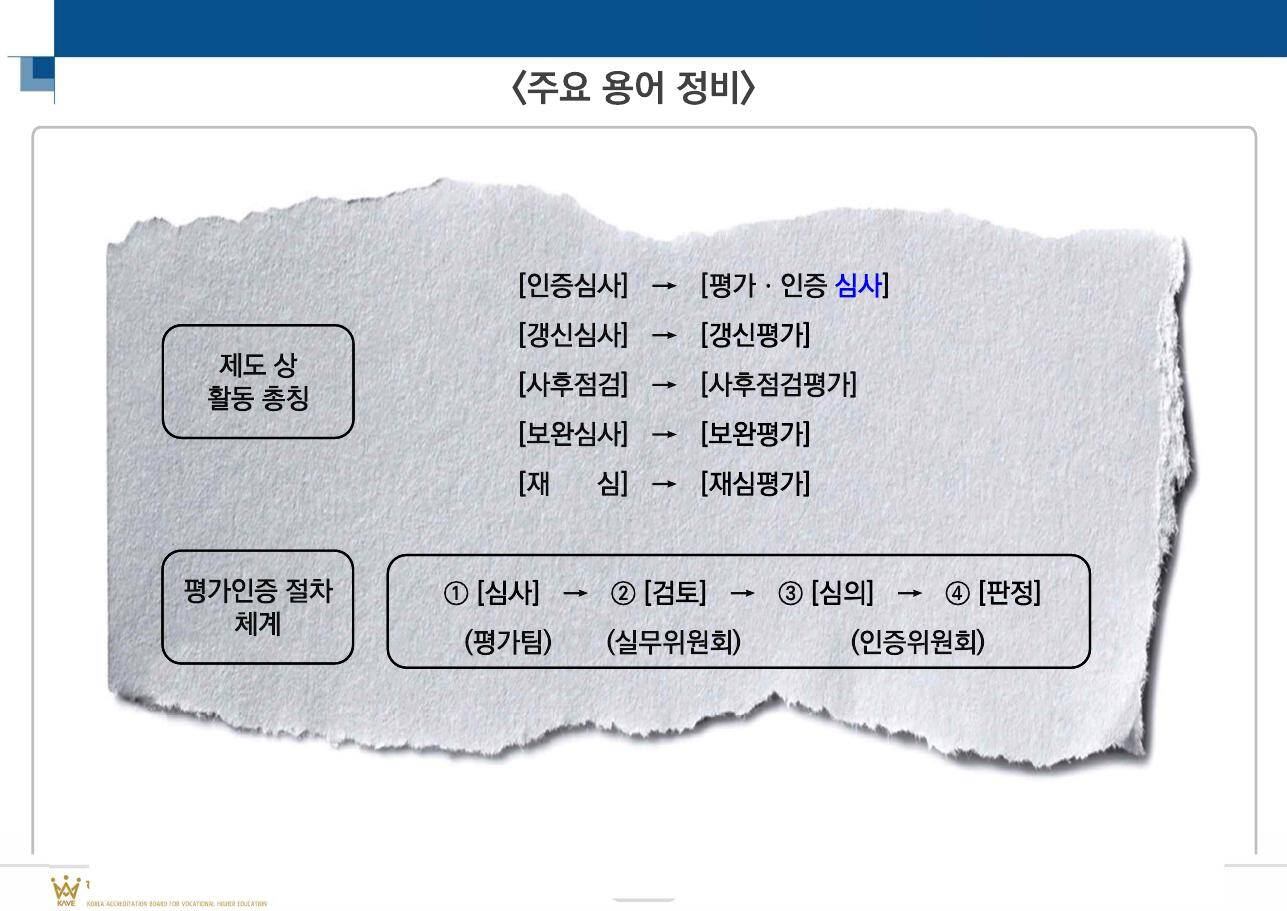
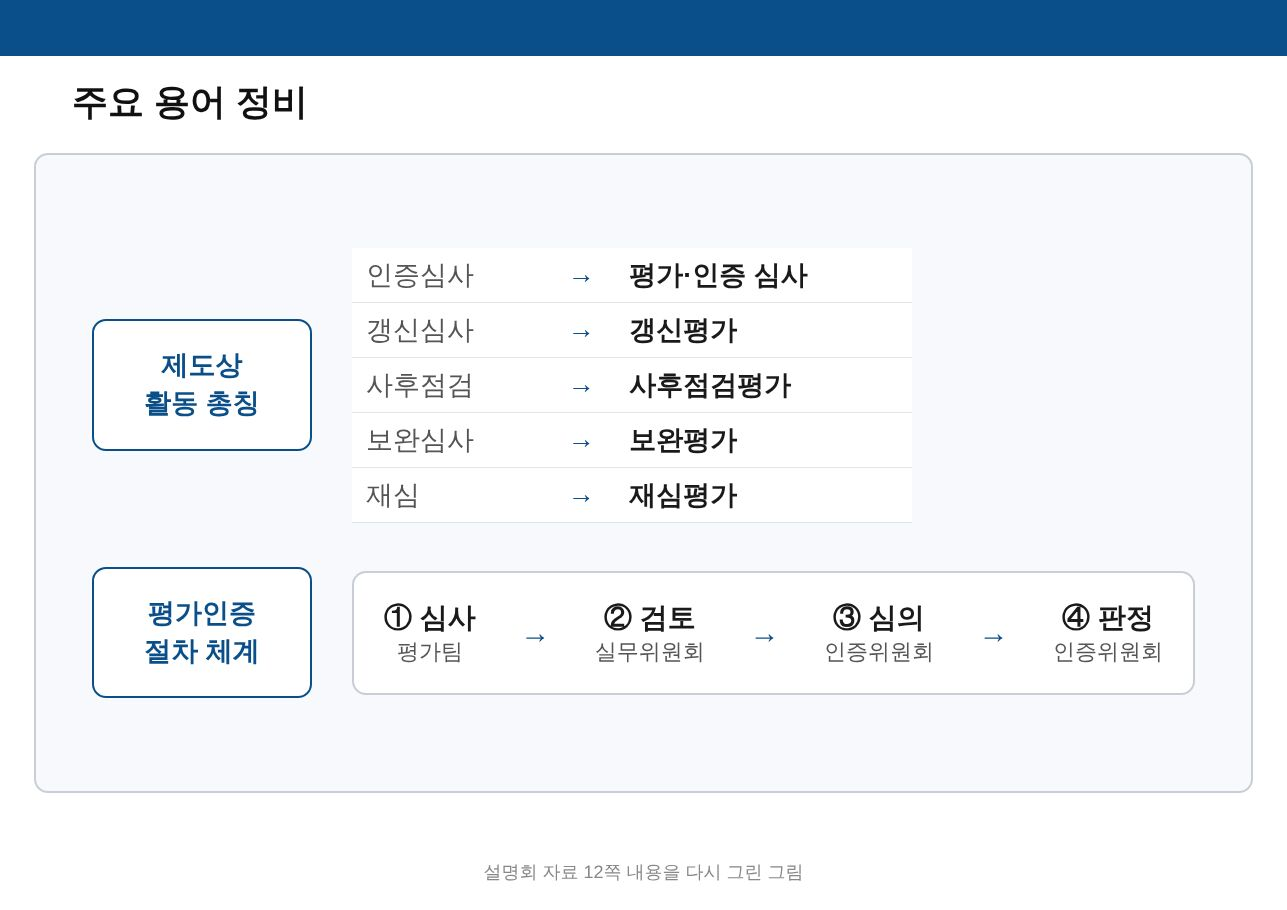
accreditation: 전체 편람 PDF 받기 버튼(fullPdf 없으면 숨김), 설명회 12쪽 그림 교체
Claude-Session: https://claude.ai/code/session_01S8huPHn3ub11s9fvdxA1Q7

diff --git a/accreditation/assets/app.js b/accreditation/assets/app.js
@@ -97,6 +97,7 @@
       '<div class="total"><b>5개 영역</b><span class="muted">평가준거 30개 · 평가요소 90개 · 판단항목 201개</span></div>' +
       '<div class="bar acc-bar" role="img" aria-label="평가영역별 평가요소 수">' + AREAS.map(function (a) { var n = a.criteria.reduce(function (s, c) { return s + c.elements.length; }, 0); return '<span class="' + areaCls(a) + '" style="width:' + (n * 100 / INDEX.length) + '%"></span>'; }).join('') + '</div>' +
       '<div class="legend">' + AREAS.map(function (a) { return '<span class="' + areaCls(a) + '"><i></i>' + esc(a.id + '. ' + a.name) + '</span>'; }).join('') + '</div>' +
+      (HB.fullPdf ? '<a class="hb-pdf" href="' + esc(HB.docs + HB.fullPdf) + '" download="accreditation-handbook-' + esc(HB.id) + '.pdf"><svg viewBox="0 0 24 24" fill="none" stroke="currentColor" stroke-width="1.9" stroke-linecap="round" stroke-linejoin="round" aria-hidden="true"><path d="M12 4v11M7 10l5 5 5-5M5 20h14"/></svg>편람 원문 PDF 받기' + (HB.fullPages ? ' <small>' + HB.fullPages + '쪽</small>' : '') + '</a>' : '') +
       '</section>';
     h += cycleCard(false);
 
@@ -1362,6 +1363,9 @@
       '<div class="settings-row"><span>발간</span><b>' + esc(DATA.meta.published) + '</b></div>';
     document.getElementById('hbInfo').innerHTML =
       '<div class="settings-row"><span>우리 대학 심사대상 기간 · ' + OUR.year + ' ' + ourKindName() + '</span><b>' + ourPeriod(true) + '</b></div>';
+    var $full = document.getElementById('fullOpen');
+    $full.hidden = !HB.fullPdf;
+    if (HB.fullPdf) { $full.href = HB.docs + HB.fullPdf; $full.setAttribute('download', 'accreditation-handbook-' + HB.id + '.pdf'); document.getElementById('fullInfo').textContent = 'PDF 다운로드' + (HB.fullPages ? ' · ' + HB.fullPages + '쪽' : ''); }
     var ks = document.getElementById('ourKind'), ys = document.getElementById('ourYear'), opts = '';
     for (var yy = 2026; yy <= 2040; yy++) opts += '<option value="' + yy + '"' + (yy === OUR.year ? ' selected' : '') + '>' + yy + '년</option>';
     ys.innerHTML = opts; ks.value = OUR.kind;

diff --git a/accreditation/index.html b/accreditation/index.html
@@ -42,6 +42,10 @@
           <select id="hbSelect" class="settings-select"><option>2027년 전문대학 기관평가인증 편람</option></select>
         </label>
         <div class="settings-grid hb-meta" id="hbMeta"></div>
+        <a class="settings-item" id="fullOpen" href="#" download hidden>
+          <svg viewBox="0 0 24 24" fill="none" stroke="currentColor" stroke-width="1.8" stroke-linecap="round" stroke-linejoin="round"><path d="M4 19.5V5a2 2 0 0 1 2-2h13v15H6a2 2 0 0 0-2 2zM4 19.5A2 2 0 0 0 6 21h13v-3"/><path d="M9 7h6M9 11h4"/></svg>
+          <span>전체 편람 받기</span><small id="fullInfo">PDF 다운로드</small>
+        </a>
         <div class="settings-grid our-grid">
           <label class="settings-row" for="ourKind"><span>우리 대학 평가</span>
             <select id="ourKind" class="settings-select"><option value="renew">갱신평가</option><option value="post">사후점검평가</option></select>

diff --git a/accreditation/assets/acc.css b/accreditation/assets/acc.css
@@ -136,3 +136,7 @@ a.chip { text-decoration: none; }
 .section-title small { font-weight: 600; font-size: var(--fs-sm); }
 .hb-meta { border-top: 0; padding-top: 0; margin-top: 10px; }
 #hbInfo .settings-row { grid-column: 1 / -1; }
+.hb-pdf { display: inline-flex; align-items: center; gap: 6px; margin-top: 12px; padding: 7px 12px; border: 1px solid var(--line); border-radius: 999px; background: var(--surface); color: var(--action); font-size: var(--fs-sm); font-weight: 700; text-decoration: none; }
+.hb-pdf svg { width: 16px; height: 16px; }
+.hb-pdf small { color: var(--text-3); font-weight: 600; }
+.hb-pdf:hover { border-color: var(--action); }
